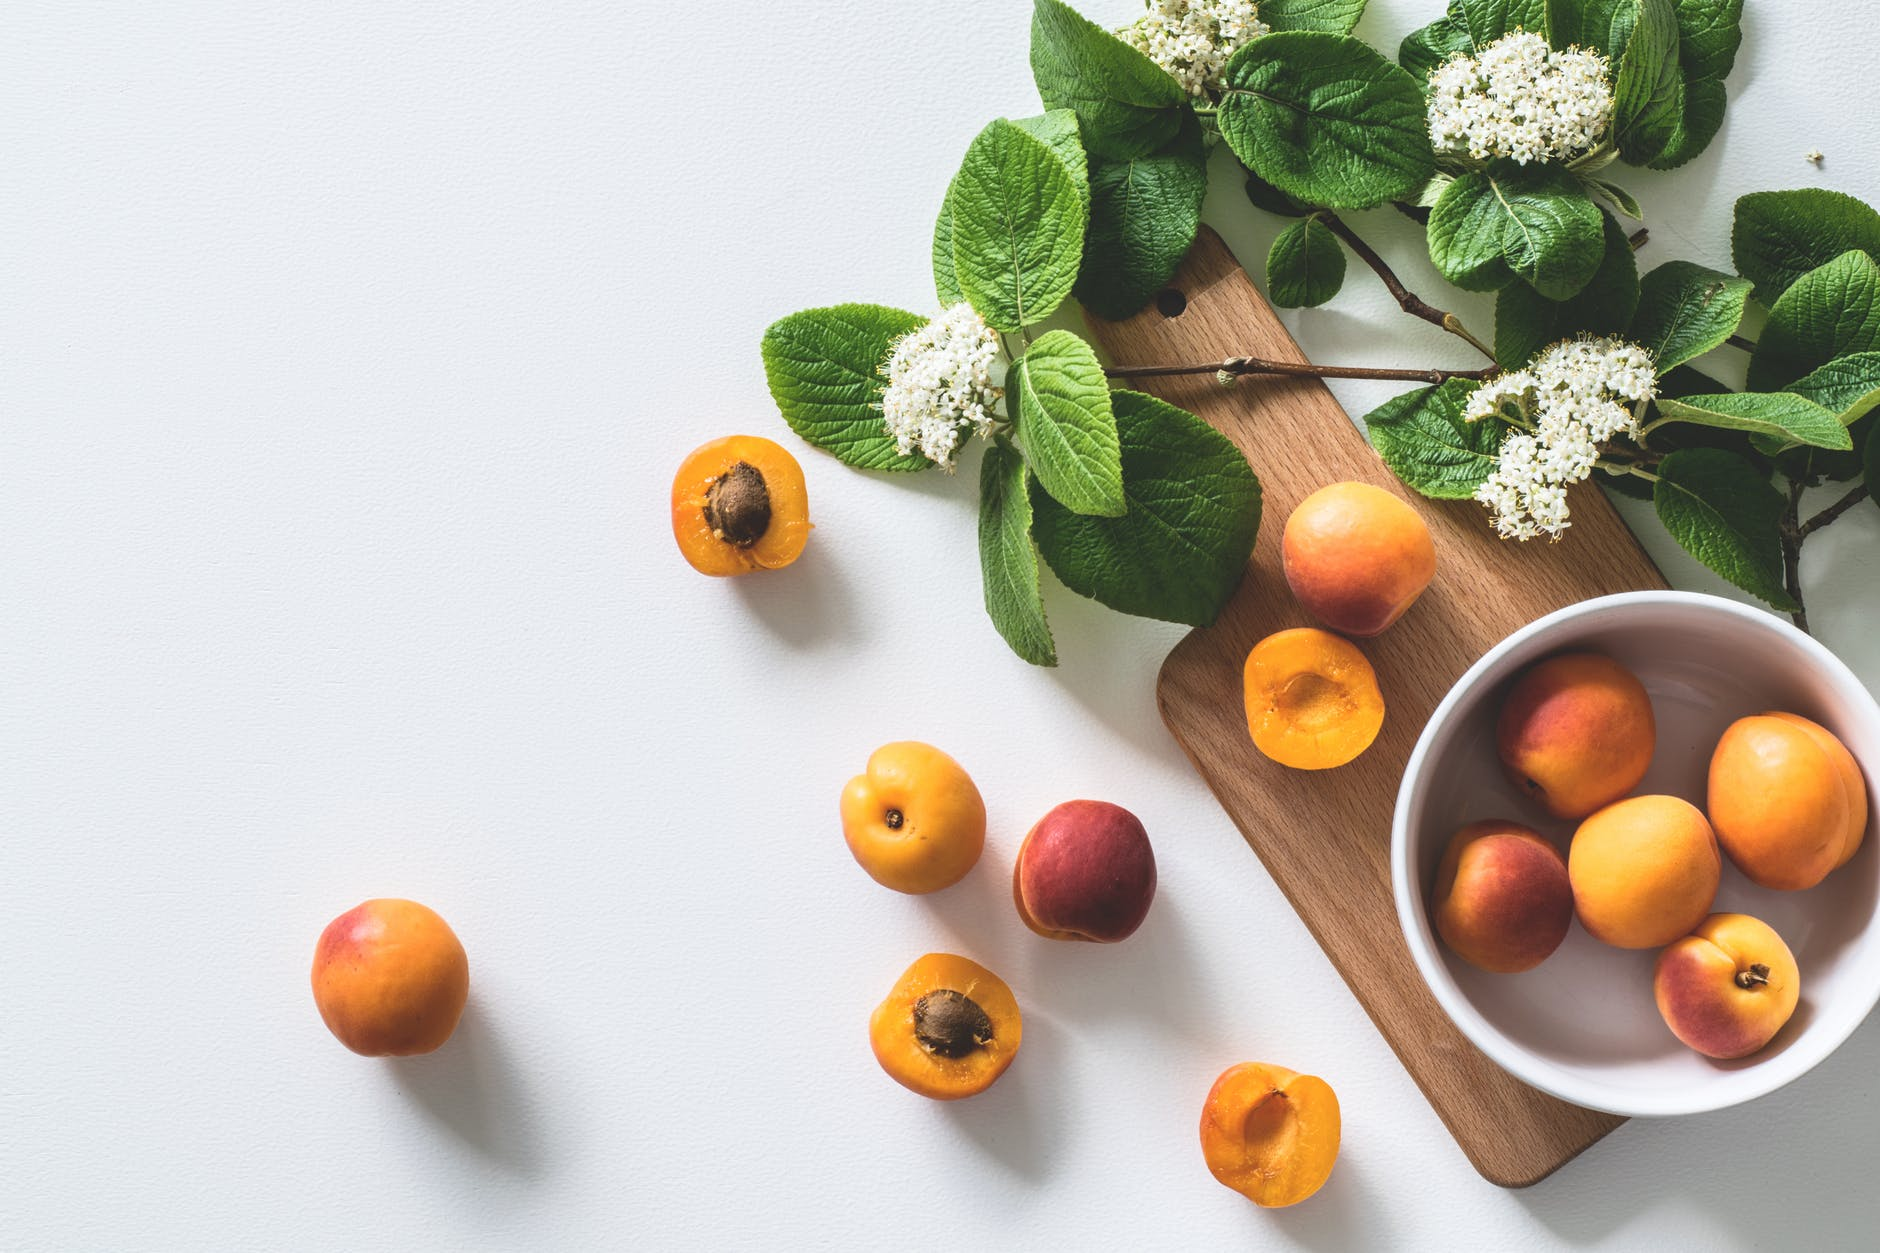
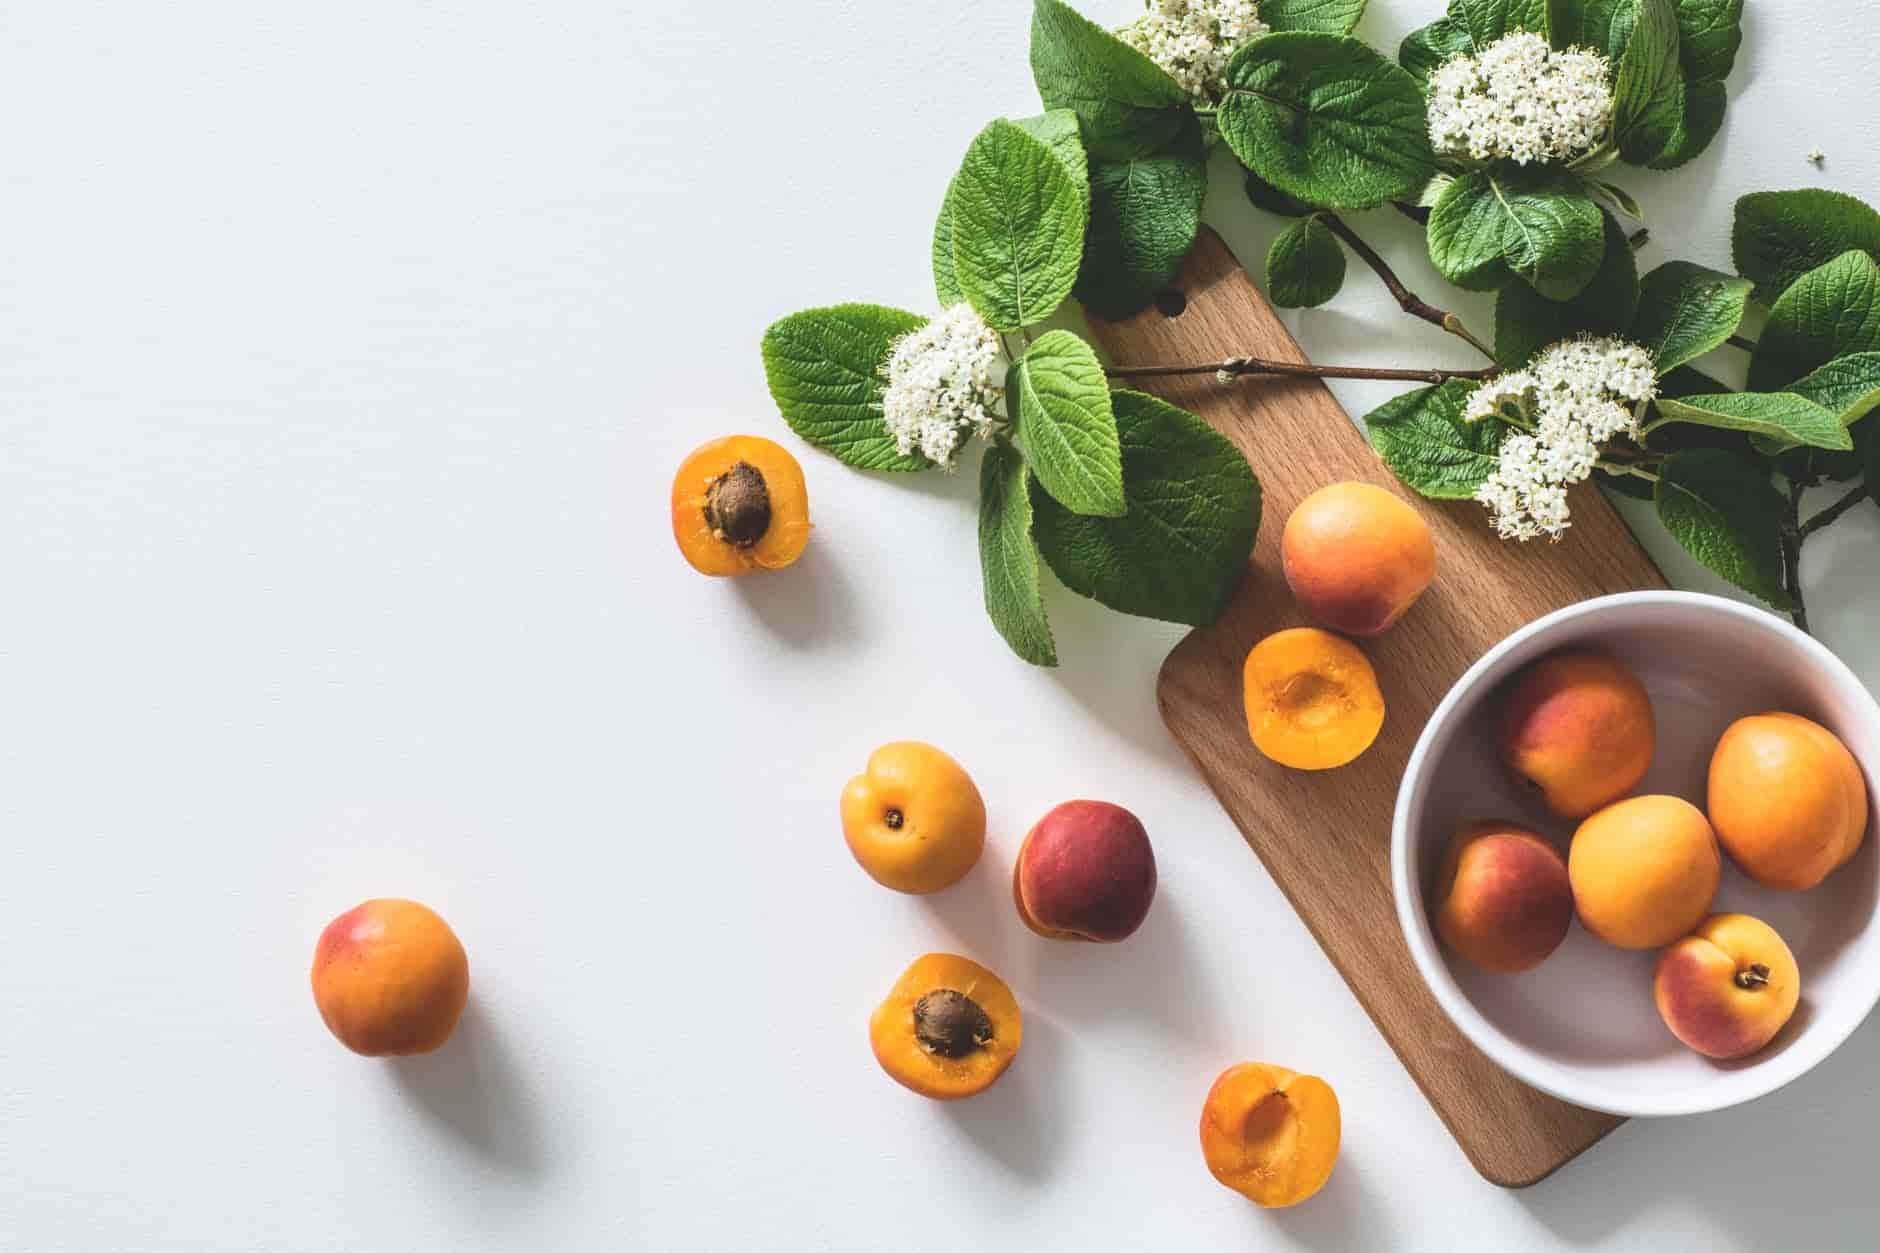
compress picture

diff --git a/src/PAGES/Header/Header.jsx b/src/PAGES/Header/Header.jsx
@@ -5,8 +5,8 @@ import {Navbar, OverlayTrigger, Tooltip, Image} from "react-bootstrap"
 import { faBell, faSignOutAlt} from "@fortawesome/free-solid-svg-icons"
 import { FontAwesomeIcon } from "@fortawesome/react-fontawesome"
 import {userLogout, hitungConfirmation} from '../../REDUX/Action/userAction'
-import Logo from '../../IMG/Logo/Chew and Cheer blue_1.jpg'
-import LogoScroll from '../../IMG/Logo/Chew and Cheer blue_2.jpg'
+import Logo from '../../IMG/Logo/Chew and Cheer blue_11.jpg'
+import LogoScroll from '../../IMG/Logo/Chew and Cheer blue_21.jpg'
 import './Header.css'
 
 class Header extends Component {
